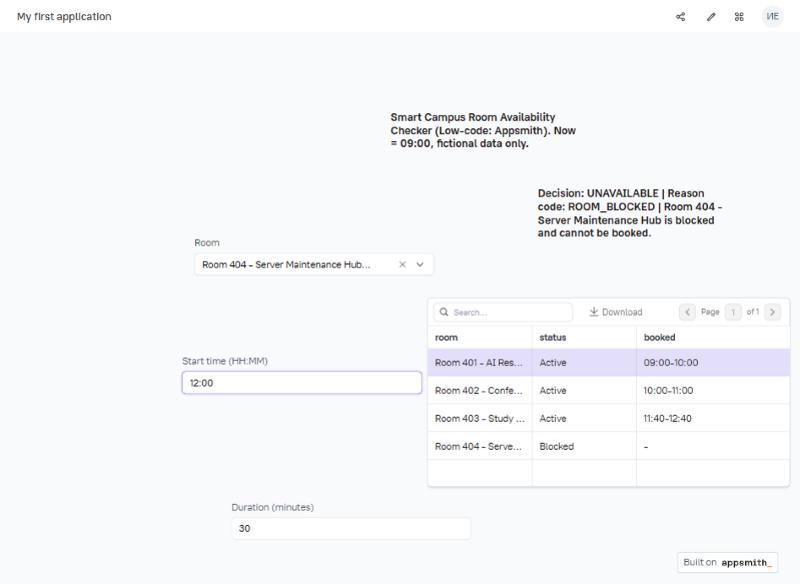
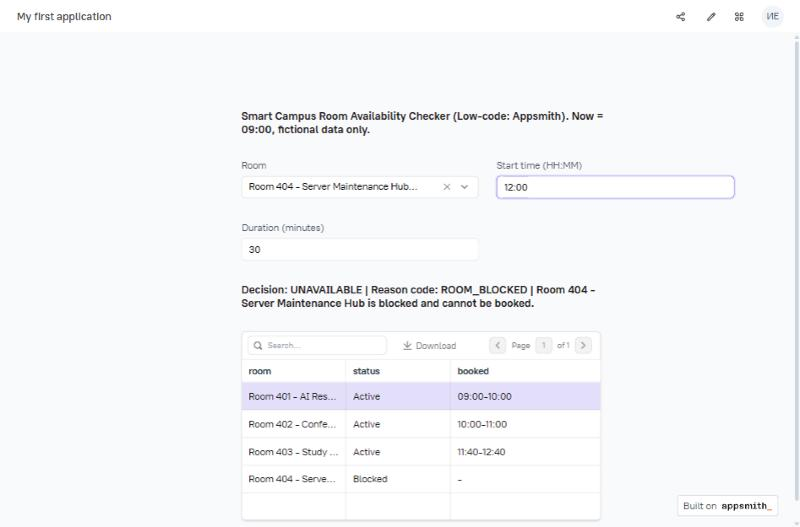
Practice #12: re-arranged Appsmith layout, refreshed low-code screenshots

diff --git a/practice-12/README.md b/practice-12/README.md
@@ -67,11 +67,11 @@ Automated runs:
 | Phase | Code-based (Bolt) | Low-code (Appsmith) |
 |---|---|---|
 | Setup | ~1 min (open the existing project) | ~1 min after login (empty app; the datasource step was skipped) |
-| Implementation | ~8 min (prompt 1 + "continue") | ~1.5 min JSObject + ~6 min placing widgets by hand + ~2.5 min bindings/Deploy |
+| Implementation | ~8 min (prompt 1 + "continue") | ~1.5 min JSObject + ~6 min placing widgets by hand + ~2.5 min bindings/Deploy + a later manual re-arrangement of the layout (not timed) |
 | Debugging | ~6 min of the 8 were the Bolt agent frozen on a search step (stop, reload, "continue") | ~1 min (drag-and-drop does not work for an automated agent; the student placed the widgets) |
 | Testing | ~7 min (terminal + 8 UI checks) | ~1.5 min (runTests + 8 UI checks) |
 | **Total** | **~16 min** | **~13 min** |
-| Unresolved defects | 0 functional; reason code not shown for T3/T4 in the UI; tests copy the logic instead of importing it | 0 functional; **layout not responsive at 375px**; uneven layout |
+| Unresolved defects | 0 functional; reason code not shown for T3/T4 in the UI; tests copy the logic instead of importing it | 0 functional; at 375px labels and the table are cut off (`40_…`) |
 
 **Measured vs impression.** The times above are measured, but **the comparison is not fully fair**: the low-code version was built second, from a contract and rules that were already worked out. The impression that "low-code is faster" for this task is **not confirmed**: almost all of the logic still had to be written as JS code inside the platform.
 
@@ -83,13 +83,13 @@ Automated runs:
 |---|---|---|
 | Functional tests | **8 / 8** (UI) + 15/15 assertions | **8 / 8** (UI) + 8/8 `runTests` |
 | Build and repair time | **~16 min** (6 of them an AI freeze) | **~13 min** (6 of them placing widgets by hand) |
-| Customization | Full control: TypeScript, any UI, responsive layout (`28_live_demo_v10_mobile_375px.jpg`) | Limited to the widget set; the rules still had to be a JS script; the layout broke at 375px (`40_…`) |
+| Customization | Full control: TypeScript, any UI, responsive layout (`28_live_demo_v10_mobile_375px.jpg`) | Limited to the widget set; the rules still had to be a JS script; the grid layout is placed by hand; at 375px labels and the table are cut off (`40_…`) |
 | Security controls | React escapes output, no `dangerouslySetInnerHTML`, no secrets or backend; dependencies can be checked with `npm audit` (not run) | Data is bound into widgets through `{{ }}`; no datasources or secrets; viewing is public, editing is Administrator-only (`42_…`); platform updates depend on the vendor |
 | Versioning / portability | Standard Vite/React project → GitHub, runs anywhere with Node | Proprietary JSON format; Git integration exists but was not connected; the code was copied out by hand |
 | Ongoing cost | $0 (Bolt free; about 190K tokens out of 498K per month for prompt 1) + free hosting on bolt.host | $0 (Appsmith Cloud free); paid plans for wider sharing and SSO |
 
 ### Recommendation
-For this feature **I recommend the code-based approach (Bolt.new / React)**. Both solutions passed 8/8. However, the code-based version has a responsive interface, normal version control (GitHub), separate pure logic with tests, and no vendor lock-in. Low-code (Appsmith) gave no real advantage here: the six-rule contract with reason codes still had to be written as JS code, and the layout needed extra manual work. Low-code makes sense for internal CRUD panels on top of a real database, where the widgets and connectors do most of the work.
+For this feature **I recommend the code-based approach (Bolt.new / React)**. Both solutions passed 8/8. However, the code-based version has a responsive interface, normal version control (GitHub), separate pure logic with tests, and no vendor lock-in. Low-code (Appsmith) gave no real advantage here: the six-rule contract with reason codes still had to be written as JS code, and the layout needed extra manual arranging. Low-code makes sense for internal CRUD panels on top of a real database, where the widgets and connectors do most of the work.
 
 ---
 
@@ -120,7 +120,7 @@ For this feature **I recommend the code-based approach (Bolt.new / React)**. Bot
 
 ## 7. Incomplete or simulated parts (labelled explicitly)
 
-- Low-code: **the layout is not responsive** (375px breaks); widgets are placed unevenly (by hand).
+- Low-code: the layout was arranged by hand on a fixed grid; at 375px labels and the table are cut off (`40_lowcode_mobile_375px.jpg`).
 - Low-code: **no JSON export or Git connection**; the code and bindings were copied out by hand.
 - `npm audit` and an XSS injection test were **not run**.
 - The times in section 3 are approximate, taken from screenshot timestamps.

diff --git a/practice-12/low-code-appsmith/widget-bindings.md b/practice-12/low-code-appsmith/widget-bindings.md
@@ -18,8 +18,8 @@ The business logic is in the JSObject `Rules` ([Rules.js](Rules.js)). The platfo
 
 ## Limitations and incomplete parts (labelled honestly)
 
-- **Layout:** widgets are placed unevenly. The agent could not drag widgets on the canvas, so the student placed them by hand and nobody aligned them afterwards.
-- **Narrow screens:** at 375px the layout is cut off (screenshot `40_lowcode_mobile_375px_layout_DEFECT.jpg`). Auto-layout was not set up.
+- **Layout:** the agent could not drag widgets on the canvas, so the student placed and aligned them by hand: title, then Room + Start time, Duration, Decision, Table.
+- **Narrow screens:** at 375px everything is visible, but labels and the table are cut off (screenshot `40_lowcode_mobile_375px.jpg`). Auto-layout was not set up.
 - **Export / version control:** the app was not exported as JSON, and Git (Appsmith "Connect Git") was not connected. This folder holds a manual copy of the code and bindings.
 - **Access:** on 26.11.2026 "Make application public" was turned on, so anyone with the link can view the app (anonymous access checked). Editing is limited to the Administrator.
 - The app has no "Check" button: the decision is recalculated reactively whenever an input changes.
